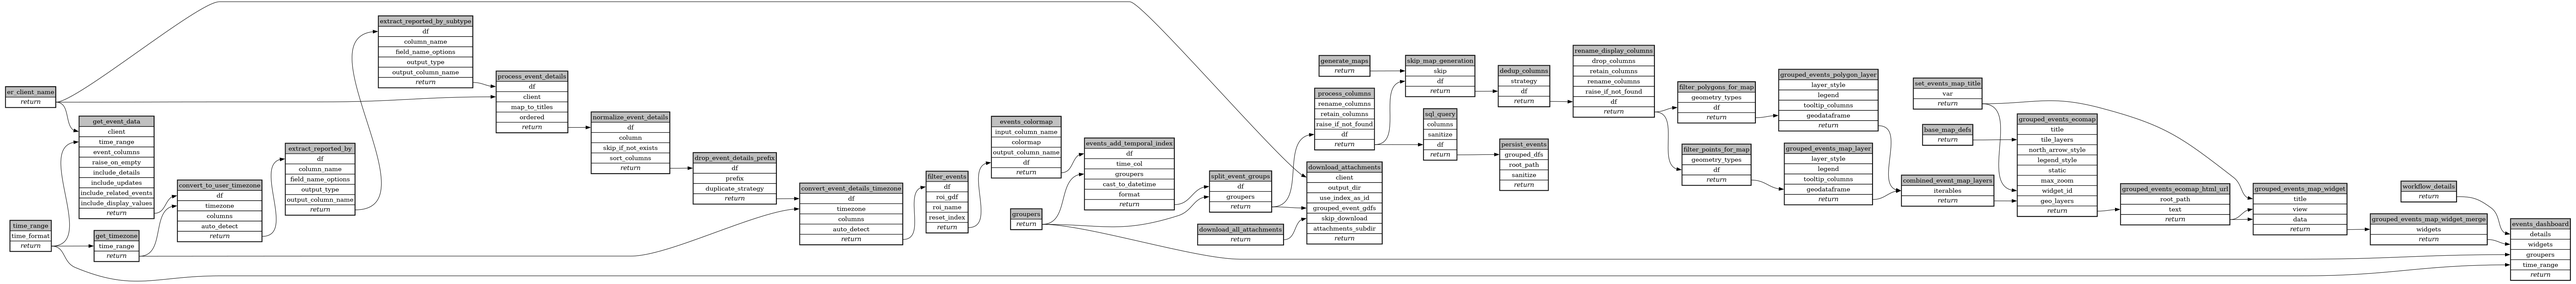
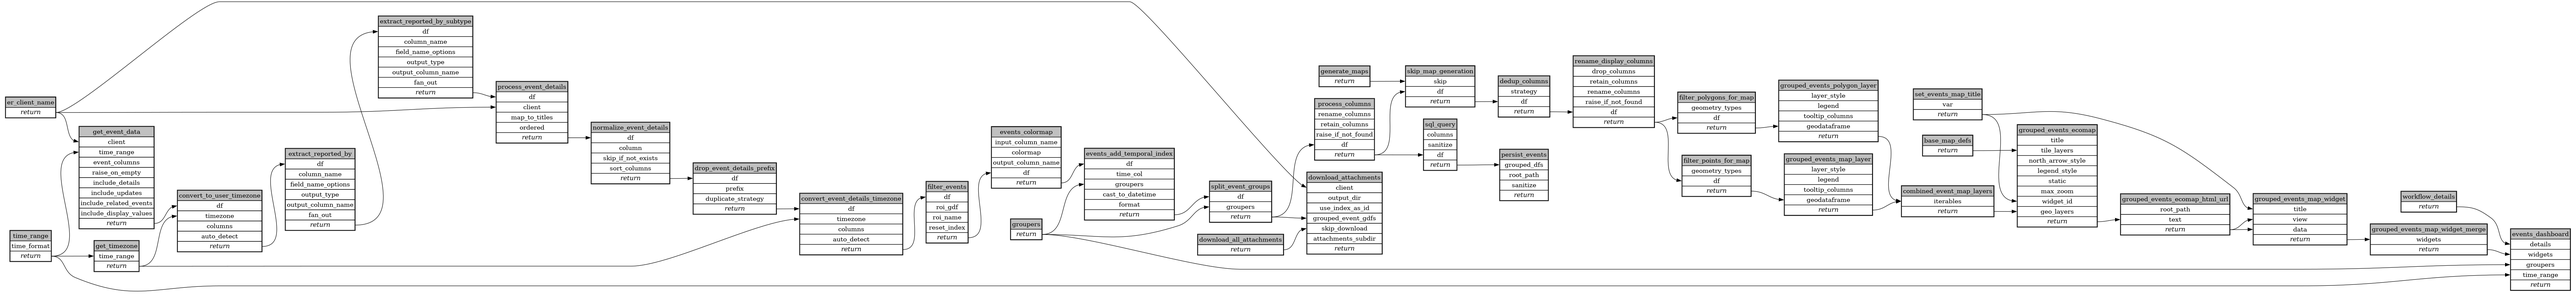
spec defaults

diff --git a/ecoscope-workflows-download-events-workflow/ecoscope_workflows_download_events_workflow/dags/run_sequential.py b/ecoscope-workflows-download-events-workflow/ecoscope_workflows_download_events_workflow/dags/run_sequential.py
@@ -214,6 +214,7 @@ def main(params: dict[str, Any], validate_params_schema: bool = True):
             field_name_options=["name"],
             output_type="str",
             output_column_name="reported_by_name",
+            fan_out=False,
             **(params.get("extract_reported_by") or {}),
         )
         .call()
@@ -238,6 +239,7 @@ def main(params: dict[str, Any], validate_params_schema: bool = True):
             field_name_options=["subject_subtype"],
             output_type="str",
             output_column_name="reported_by_subtype",
+            fan_out=False,
             **(params.get("extract_reported_by_subtype") or {}),
         )
         .call()

diff --git a/ecoscope-workflows-download-events-workflow/ecoscope_workflows_download_events_workflow/dags/run_sequential_mock_io.py b/ecoscope-workflows-download-events-workflow/ecoscope_workflows_download_events_workflow/dags/run_sequential_mock_io.py
@@ -235,6 +235,7 @@ def main(params: dict[str, Any], validate_params_schema: bool = True):
             field_name_options=["name"],
             output_type="str",
             output_column_name="reported_by_name",
+            fan_out=False,
             **(params.get("extract_reported_by") or {}),
         )
         .call()
@@ -259,6 +260,7 @@ def main(params: dict[str, Any], validate_params_schema: bool = True):
             field_name_options=["subject_subtype"],
             output_type="str",
             output_column_name="reported_by_subtype",
+            fan_out=False,
             **(params.get("extract_reported_by_subtype") or {}),
         )
         .call()

diff --git a/ecoscope-workflows-download-events-workflow/README.md b/ecoscope-workflows-download-events-workflow/README.md
@@ -5,8 +5,8 @@
 
 ```yaml
 # fingerprint:
-artifacts_sha256_basic: 1d6b6b302f1adcbe30b407fe78565cc684ba7071c129746f41f97fe62ff1e74e
-artifacts_sha256_strict: bffc5c0e327a936d3c02a3f75aaaee9393d8a44e366e632aa165a64c12392e44
+artifacts_sha256_basic: 568a19534e85ca22fe916fac58eee1f4c8eab4b9db5bcc38f61ff47cb9c8c668
+artifacts_sha256_strict: b2aaa8dc62642165c08dbce3a1474287bb945de9a96049d65e5765c3cbecdecb
 installed_requirements:
 - channel: https://repo.prefix.dev/ecoscope-workflows/
   name: ecoscope-platform
@@ -14,8 +14,8 @@ installed_requirements:
 - channel: conda-forge
   name: pydeck
   version: {version: ==0.9.2}
-params_sha256: 733dc66d8be2d0ce6a3985d7495d01a47deba375363f6d1d05c1fa30532960aa
-spec_sha256: 6a85d24f00dee7809622d5689efb721a67deda42c6c9ca03bf5f4525dc49dbf5
+params_sha256: 27b83fb2c0dd72bf97a9e5334a4045605f1f59abbbf8bd19be30e7dbc6ccbb50
+spec_sha256: c22da5ffe6a341a2557912945c173bcce2b598ade74e863f39b53851f2b163c3
 
 ```
 
